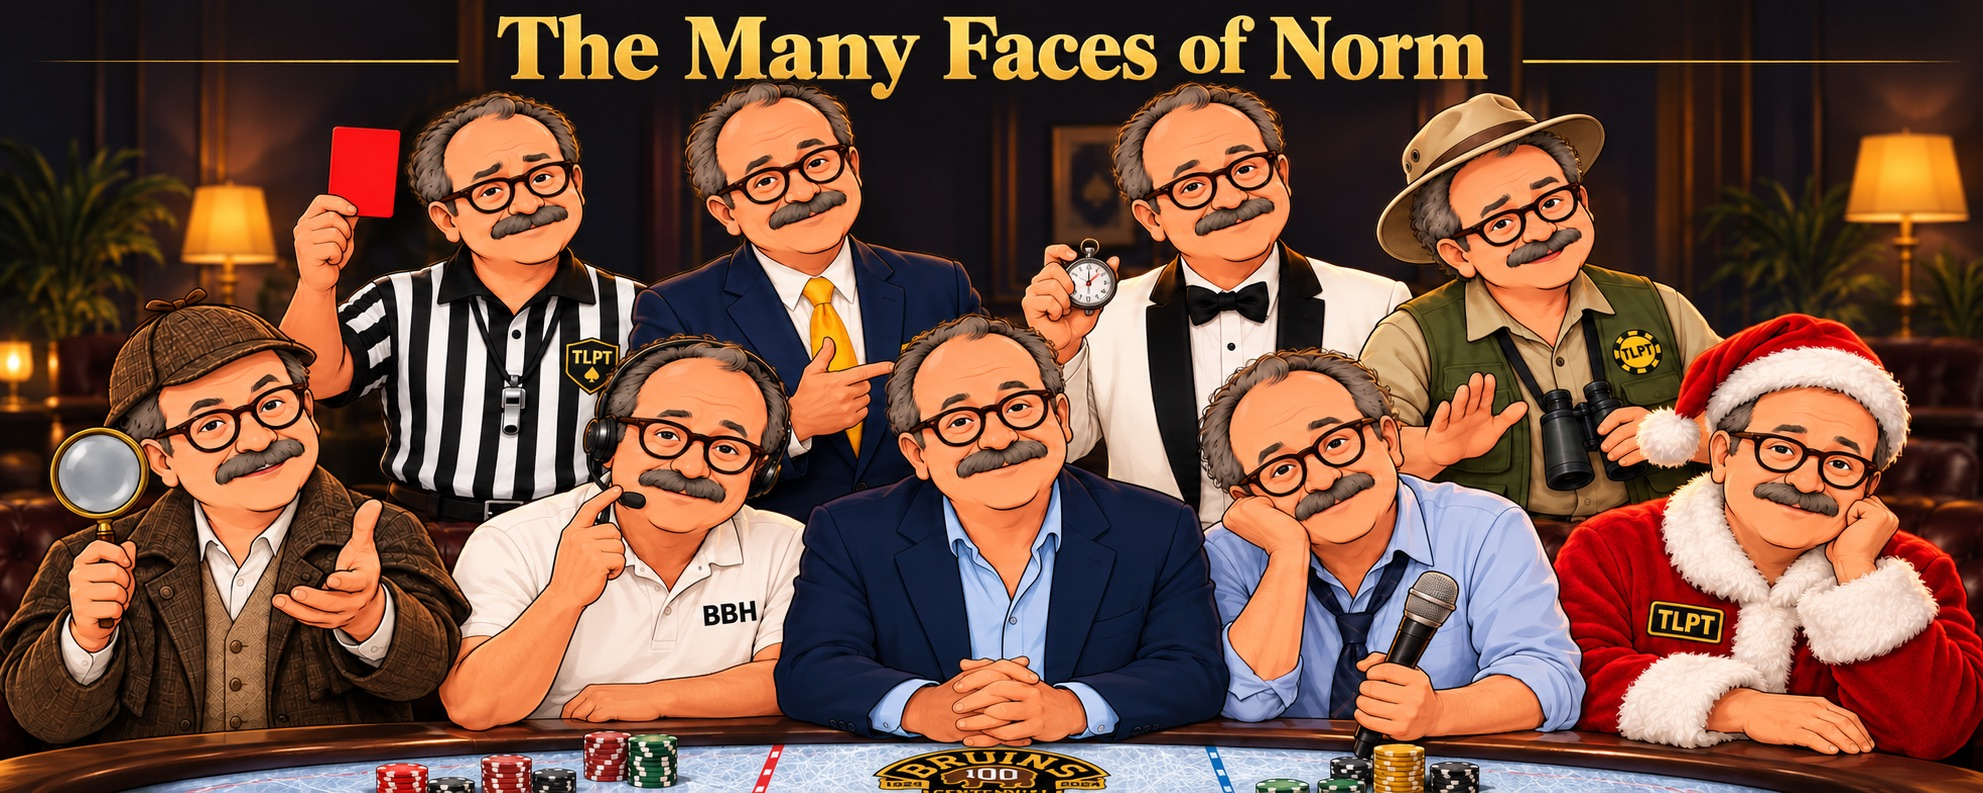
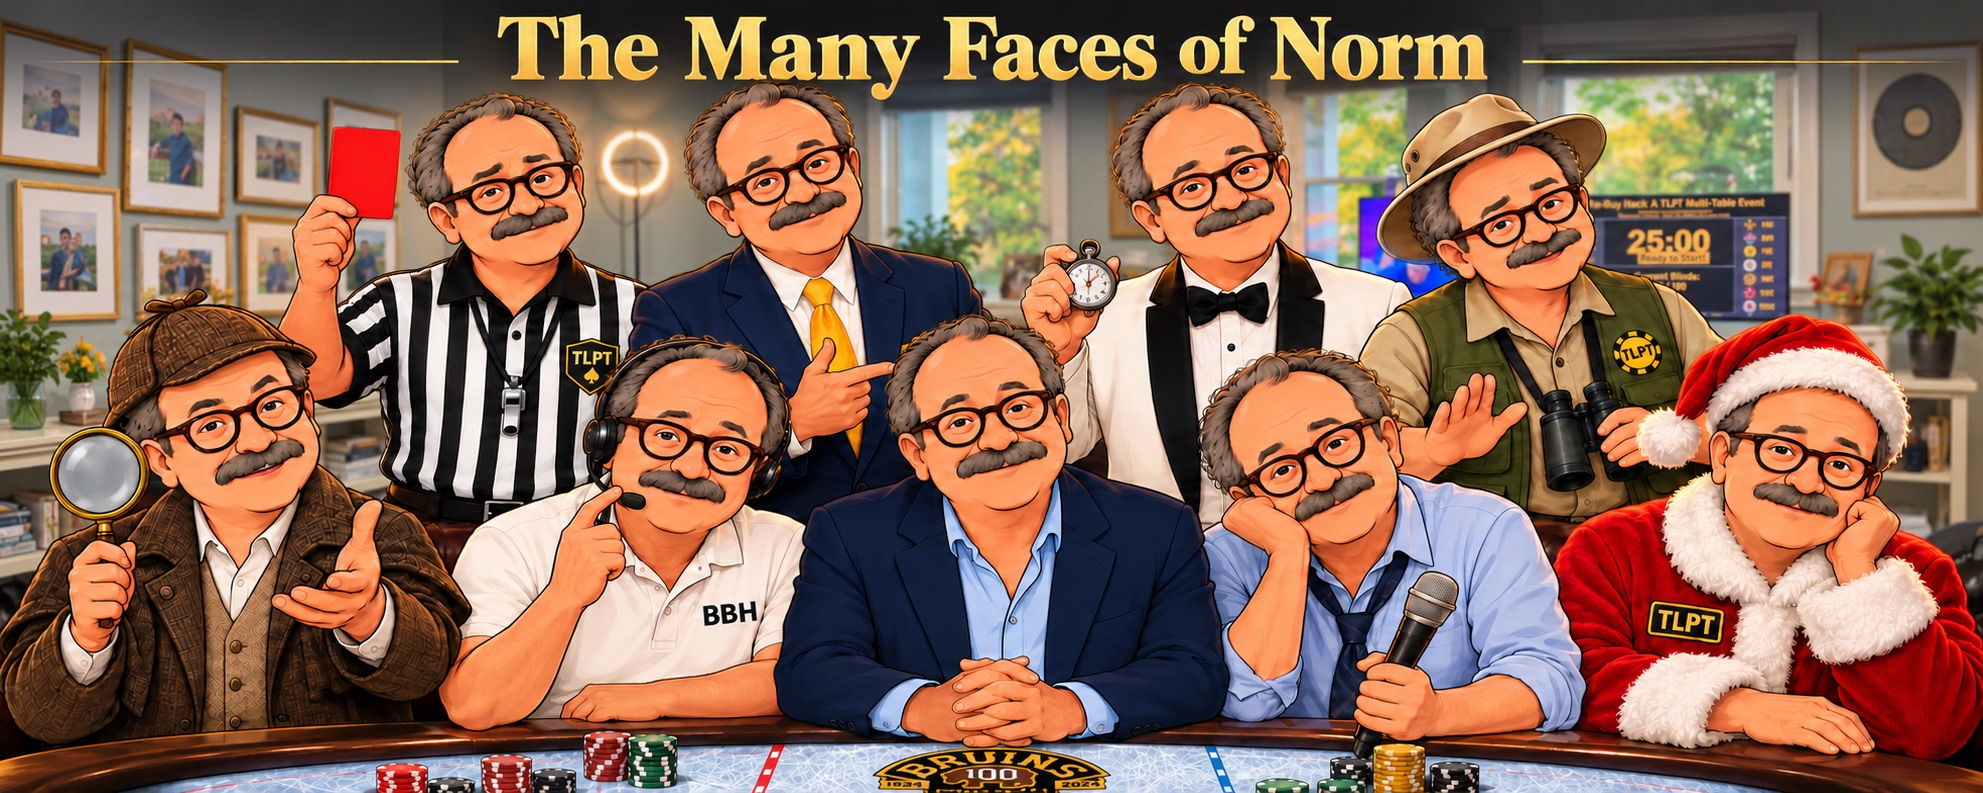
Use the actual TLPT card room behind the Norm cast

diff --git a/MAINTENANCE-RUNBOOK.md b/MAINTENANCE-RUNBOOK.md
@@ -291,7 +291,8 @@ lineups and saving replies require internet. Changes here do not deploy the RSVP
 
 The homepage's three former teasers are replaced by the single “The Many Faces
 of Norm” banner linking to `media.html`. The approved nine-character artwork
-includes its gold headline and the pale TLPT hockey felt. Keep the full image
+includes its gold headline, the owner's actual card-room backdrop (referenced
+from `images/rebuy-hard/the-room.jpg`), and the pale TLPT hockey felt. Keep the full image
 uncropped on every screen, the visible Film Room CTA and keyboard focus, and the
 accessible link label. Do not restore the old three-teaser row alongside it.
 The image checksum and six-width interaction checks live in the RSVP-guide tests.
